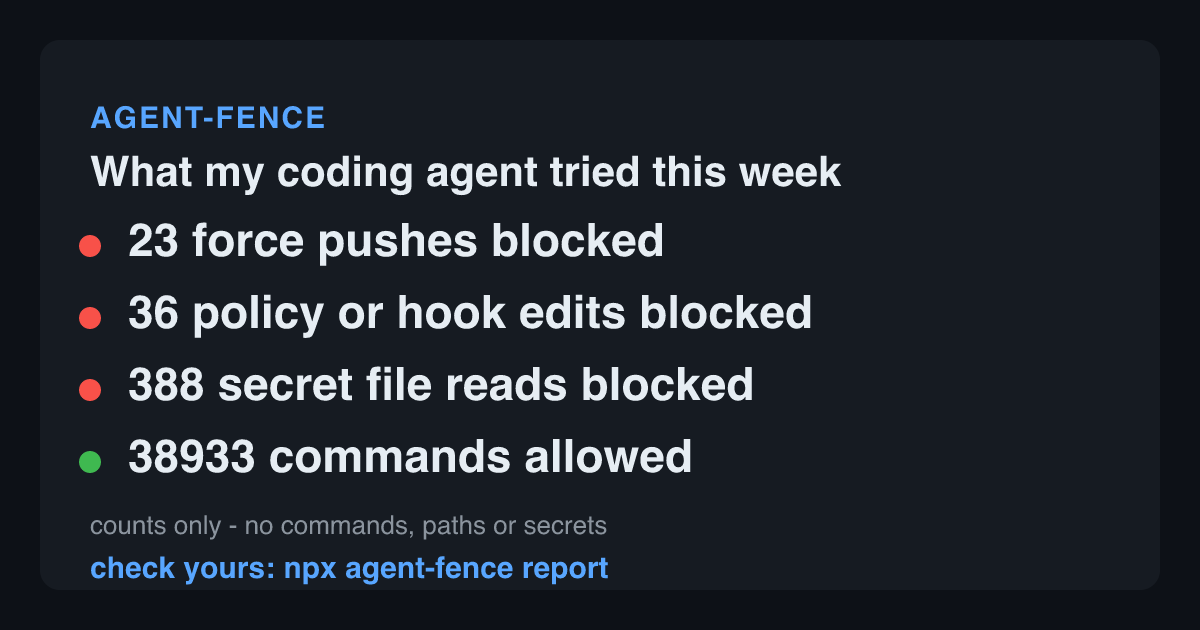
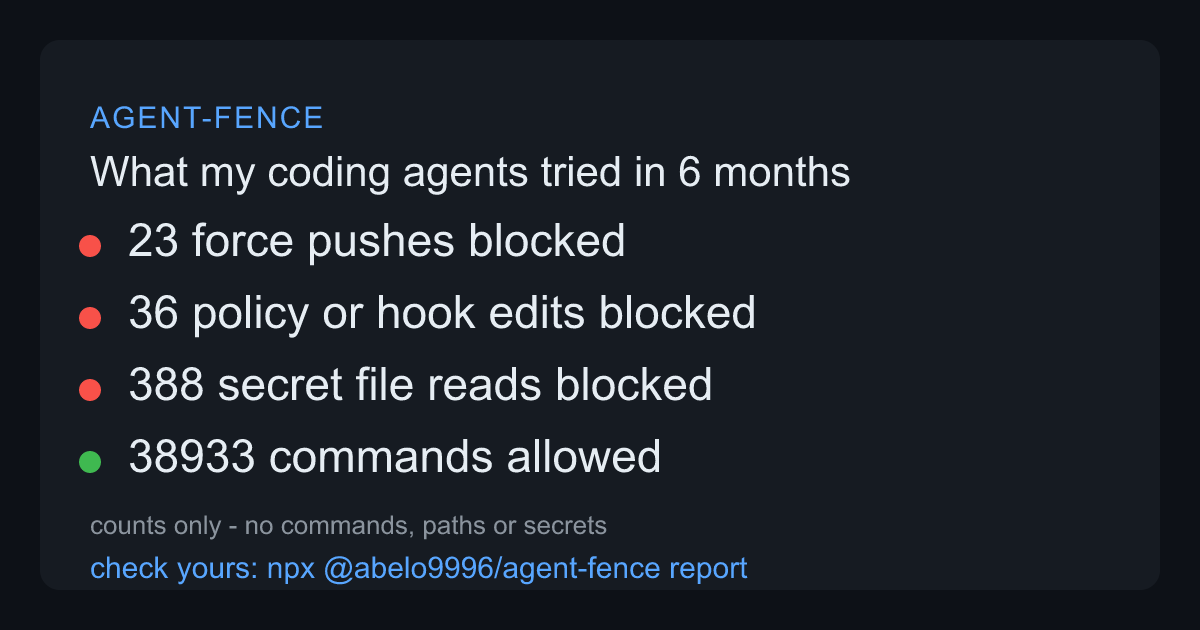
Card: point at the real scoped package (npx @abelo9996/agent-fence) and label the README sample as 6 months of history

diff --git a/src/card.ts b/src/card.ts
@@ -62,7 +62,7 @@ export function renderSvg(r: Report): string {
   <text x="90" y="186" font-size="42" font-weight="700" fill="${COLOR.text}">${esc(title)}</text>
   ${rows}
   <text x="90" y="534" font-size="26" fill="${COLOR.dim}">counts only - no commands, paths or secrets</text>
-  <text x="90" y="578" font-size="30" font-weight="600" fill="${COLOR.accent}">check yours:  npx agent-fence report</text>
+  <text x="90" y="578" font-size="30" font-weight="600" fill="${COLOR.accent}">check yours:  npx @abelo9996/agent-fence report</text>
 </svg>
 `;
 }

diff --git a/test/card.test.ts b/test/card.test.ts
@@ -39,7 +39,7 @@ describe("renderSvg", () => {
   it("is valid SVG containing the counts and the call to action", () => {
     expect(svg).toMatch(/^<\?xml/);
     expect(svg).toContain("3 force pushes blocked");
-    expect(svg).toContain("npx agent-fence report");
+    expect(svg).toContain("npx @abelo9996/agent-fence report");
     expect(svg).toContain("counts only");
   });
   it("escapes text", () => {

diff --git a/CHANGELOG.md b/CHANGELOG.md
@@ -5,7 +5,7 @@
 See what your agent tried: a report, a shareable card, and a retroactive audit of existing transcripts.
 
 - New `agent-fence report [--since 7d] [--all] [--card out.png]`: a one-screen summary of the audit log. Commands, file reads and writes, and fetches counted as allowed, asked and denied; the riskiest blocked attempts first (destructive deletes, force pushes, secret file reads, publish or delete, history rewrites), each with its count and the exact rule id; and per-agent and per-project breakdowns. `--json` prints the whole report.
-- `agent-fence report --card out.png` also writes a shareable card (`out.png` and `out.svg` beside it): "What my coding agent tried this week: 3 force pushes blocked, 2 secret file reads blocked, 41 commands allowed" with "check yours: npx agent-fence report". The card is rendered in-process (`@resvg/resvg-wasm`, no system tools) and shows counts only: no commands, paths or secrets. A sans-serif system font is used for the PNG (`AGENT_FENCE_FONT` overrides it); the SVG needs no font.
+- `agent-fence report --card out.png` also writes a shareable card (`out.png` and `out.svg` beside it): "What my coding agent tried this week: 3 force pushes blocked, 2 secret file reads blocked, 41 commands allowed" with "check yours: npx @abelo9996/agent-fence report". The card is rendered in-process (`@resvg/resvg-wasm`, no system tools) and shows counts only: no commands, paths or secrets. A sans-serif system font is used for the PNG (`AGENT_FENCE_FONT` overrides it); the SVG needs no font.
 - New `agent-fence replay <session-log>`: run the policy over an existing Claude Code (`~/.claude/projects/*/*.jsonl`) or Codex (`~/.codex/sessions/.../rollout-*.jsonl`) transcript and show what would have been blocked or asked, with no hook installed. The format is auto-detected (`--source` forces it). It also reports where a naive command-grep guard would miss what agent-fence catches - force pushes spelled `--force-with-lease=`, blocked commands chained after `&&`, program names from a variable, and the file reads and fetches a command-only grep never sees.
 - New `@resvg/resvg-wasm` dependency, used only by the card renderer.
 

diff --git a/README.md b/README.md
@@ -39,7 +39,7 @@ agent-fence report --since 7d                 # allowed / asked / denied, riskie
 agent-fence report --since 7d --card card.png # also card.png + card.svg, counts only, safe to share
 ```
 
-![agent-fence card: "What my coding agent tried this week: 3 force pushes blocked, 2 secret file reads blocked, 41 commands allowed. check yours: npx agent-fence report"](assets/card.png)
+![agent-fence card from a replay of 6 months of real Claude Code and Codex history: "What my coding agents tried in 6 months: 23 force pushes, 36 policy or hook edits and 388 secret file reads blocked, 38933 commands allowed. check yours: npx @abelo9996/agent-fence report"](assets/card.png)
 
 The card shows counts only: no commands, no paths, no secrets.
 
